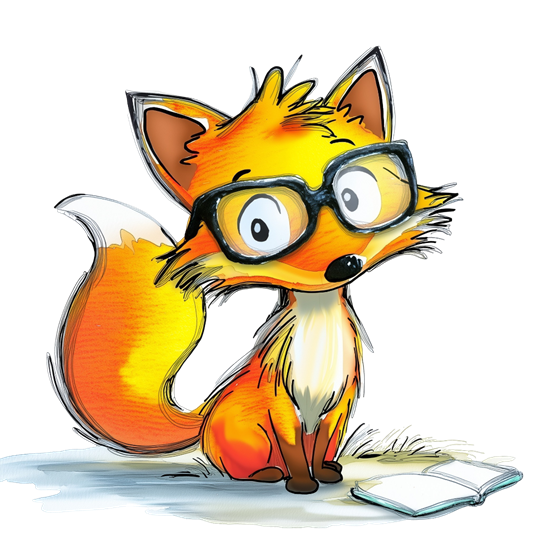
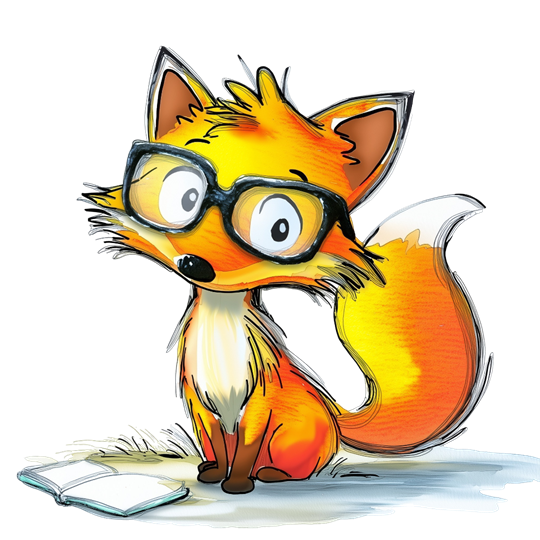
Update testimonials and character images
- Changed testimonials to 5-column layout
- Added 2 new testimonials (Иван and Анна)
- Added review photos 4 and 5
- Updated review photo 2 to .png
- Moved hero-left to top-left corner
- Removed hero-right, preview-left, and testimonials characters
- Moved character-benefits.png to correct folder

diff --git a/app/page.js b/app/page.js
@@ -72,22 +72,10 @@ export default function Home() {
     <main className="min-h-screen bg-gradient-to-b from-peach-50 via-sand-50 to-sage-50">
       {/* Hero Section */}
       <section className="relative overflow-hidden pt-16 md:pt-24 pb-20 md:pb-32">
-        {/* Floating Character - Left Side (Desktop) */}
-        <div className="hidden lg:block absolute left-0 top-1/4 w-48 xl:w-64 opacity-90 pointer-events-none">
+        {/* Floating Character - Top Left Corner (Desktop) */}
+        <div className="hidden lg:block absolute left-4 top-4 w-48 xl:w-64 opacity-90 pointer-events-none">
           <Image
             src="/images/character-hero-left.png"
-            alt="Персонаж"
-            width={256}
-            height={256}
-            className="object-contain"
-            unoptimized
-          />
-        </div>
-
-        {/* Floating Character - Right Side (Desktop) */}
-        <div className="hidden lg:block absolute right-0 top-1/3 w-48 xl:w-64 opacity-90 pointer-events-none">
-          <Image
-            src="/images/character-hero-right.png"
             alt="Персонаж"
             width={256}
             height={256}
@@ -285,18 +273,6 @@ export default function Home() {
 
       {/* Book Preview Section */}
       <section className="py-20 md:py-32 bg-gradient-to-b from-peach-50 to-coral-50 relative">
-        {/* Decorative Character - Left */}
-        <div className="hidden md:block absolute left-4 lg:left-10 top-1/3 w-40 lg:w-56 opacity-70 pointer-events-none">
-          <Image
-            src="/images/character-preview-left.png"
-            alt="Персонаж"
-            width={224}
-            height={224}
-            className="object-contain"
-            unoptimized
-          />
-        </div>
-
         <div className="max-w-7xl mx-auto px-4 sm:px-6 lg:px-8">
           <div className="text-center mb-20">
             <h2 className="text-4xl md:text-5xl font-bold text-gray-900 mb-6 leading-tight">
@@ -600,59 +576,86 @@ export default function Home() {
 
       {/* Social Proof / Testimonials Section */}
       <section className="py-20 md:py-32 bg-white relative">
-        {/* Decorative Character */}
-        <div className="hidden md:block absolute left-8 top-1/2 w-40 opacity-70 pointer-events-none">
-          <Image
-            src="/images/character-testimonials.png"
-            alt="Персонаж"
-            width={160}
-            height={160}
-            className="object-contain"
-            unoptimized
-          />
-        </div>
-
         <div className="max-w-7xl mx-auto px-4 sm:px-6 lg:px-8">
           <h2 className="text-4xl md:text-5xl font-bold text-center text-gray-900 mb-20 leading-tight">
             Какво Казват Родителите
           </h2>
 
-          <div className="grid md:grid-cols-3 gap-8 md:gap-10">
-            <div className="bg-peach-50 rounded-3xl p-10 border border-peach-100 hover:shadow-lg transition-shadow duration-300">
-              <div className="flex gap-1 mb-6">
-                {[...Array(5)].map((_, i) => (
-                  <span key={i} className="text-yellow-400 text-2xl">⭐</span>
-                ))}
+          <div className="grid md:grid-cols-5 gap-4 md:gap-6">
+            {[
+              {
+                name: "Мария",
+                role: "мама на 4-годишна",
+                quote: "Детето ми обожава тази книга! Всяка вечер иска да я чета отново. Историята е толкова мила и учи на важни ценности.",
+                photo: "/images/review-photo-1.jpg",
+                bgColor: "bg-peach-50",
+                borderColor: "border-peach-100"
+              },
+              {
+                name: "Петър",
+                role: "баща на 5-годишна",
+                quote: "Прекрасна книга с красиви илюстрации. След като я прочетохме, дъщеря ми започна да споделя играчките си с приятелите.",
+                photo: "/images/review-photo-2.png",
+                bgColor: "bg-coral-50",
+                borderColor: "border-coral-100"
+              },
+              {
+                name: "Елена",
+                role: "мама на 6-годишен",
+                quote: "Най-накрая българска детска книга с модерни илюстрации и смислена история! Синът ми я обожава.",
+                photo: "/images/review-photo-3.jpg",
+                bgColor: "bg-sand-50",
+                borderColor: "border-sand-100"
+              },
+              {
+                name: "Иван",
+                role: "баща на 3-годишен",
+                quote: "Купих книгата като подарък и не съжалявам. Синът ми иска да я чете всяка вечер преди лягане.",
+                photo: "/images/review-photo-4.png",
+                bgColor: "bg-sage-50",
+                borderColor: "border-sage-100"
+              },
+              {
+                name: "Анна",
+                role: "мама на 5-годишни близнаци",
+                quote: "И двете ми деца обичат тази книга! Чудесен начин да научат за приятелството и добротата.",
+                photo: "/images/review-photo-5.png",
+                bgColor: "bg-sky-50",
+                borderColor: "border-sky-100"
+              }
+            ].map((testimonial, index) => (
+              <div key={index} className={`${testimonial.bgColor} rounded-2xl p-5 border ${testimonial.borderColor} hover:shadow-lg transition-shadow duration-300`}>
+                {/* Review Photo */}
+                <div className="mb-4 rounded-xl overflow-hidden aspect-[4/3] bg-gray-200">
+                  {testimonial.photo ? (
+                    <Image
+                      src={testimonial.photo}
+                      alt={`Снимка от ${testimonial.name}`}
+                      width={400}
+                      height={300}
+                      className="object-cover w-full h-full"
+                      unoptimized
+                    />
+                  ) : (
+                    <div className="w-full h-full flex flex-col items-center justify-center bg-gray-200 text-gray-400">
+                      <svg className="w-12 h-12 mb-2" fill="none" stroke="currentColor" viewBox="0 0 24 24">
+                        <path strokeLinecap="round" strokeLinejoin="round" strokeWidth={1.5} d="M4 16l4.586-4.586a2 2 0 012.828 0L16 16m-2-2l1.586-1.586a2 2 0 012.828 0L20 14m-6-6h.01M6 20h12a2 2 0 002-2V6a2 2 0 00-2-2H6a2 2 0 00-2 2v12a2 2 0 002 2z" />
+                      </svg>
+                      <span className="text-sm">Няма снимка</span>
+                    </div>
+                  )}
+                </div>
+                <div className="flex gap-1 mb-3">
+                  {[...Array(5)].map((_, i) => (
+                    <span key={i} className="text-yellow-400 text-lg">⭐</span>
+                  ))}
+                </div>
+                <p className="text-gray-700 mb-4 leading-relaxed text-sm">
+                  "{testimonial.quote}"
+                </p>
+                <p className="font-semibold text-gray-900 text-sm">{testimonial.name}, {testimonial.role}</p>
               </div>
-              <p className="text-gray-700 mb-8 leading-relaxed text-lg">
-                "Детето ми обожава тази книга! Всяка вечер иска да я чета отново. Историята е толкова мила и учи на важни ценности."
-              </p>
-              <p className="font-semibold text-gray-900 text-lg">Мария, мама на 4-годишна</p>
-            </div>
-
-            <div className="bg-coral-50 rounded-3xl p-10 border border-coral-100 hover:shadow-lg transition-shadow duration-300">
-              <div className="flex gap-1 mb-6">
-                {[...Array(5)].map((_, i) => (
-                  <span key={i} className="text-yellow-400 text-2xl">⭐</span>
-                ))}
-              </div>
-              <p className="text-gray-700 mb-8 leading-relaxed text-lg">
-                "Прекрасна книга с красиви илюстрации. След като я прочетохме, дъщеря ми започна да споделя играчките си с приятелите."
-              </p>
-              <p className="font-semibold text-gray-900 text-lg">Петър, баща на 5-годишна</p>
-            </div>
-
-            <div className="bg-sand-50 rounded-3xl p-10 border border-sand-100 hover:shadow-lg transition-shadow duration-300">
-              <div className="flex gap-1 mb-6">
-                {[...Array(5)].map((_, i) => (
-                  <span key={i} className="text-yellow-400 text-2xl">⭐</span>
-                ))}
-              </div>
-              <p className="text-gray-700 mb-8 leading-relaxed text-lg">
-                "Най-накрая българска детска книга с модерни илюстрации и смислена история! Синът ми я обожава."
-              </p>
-              <p className="font-semibold text-gray-900 text-lg">Елена, мама на 6-годишен</p>
-            </div>
+            ))}
           </div>
         </div>
       </section>
